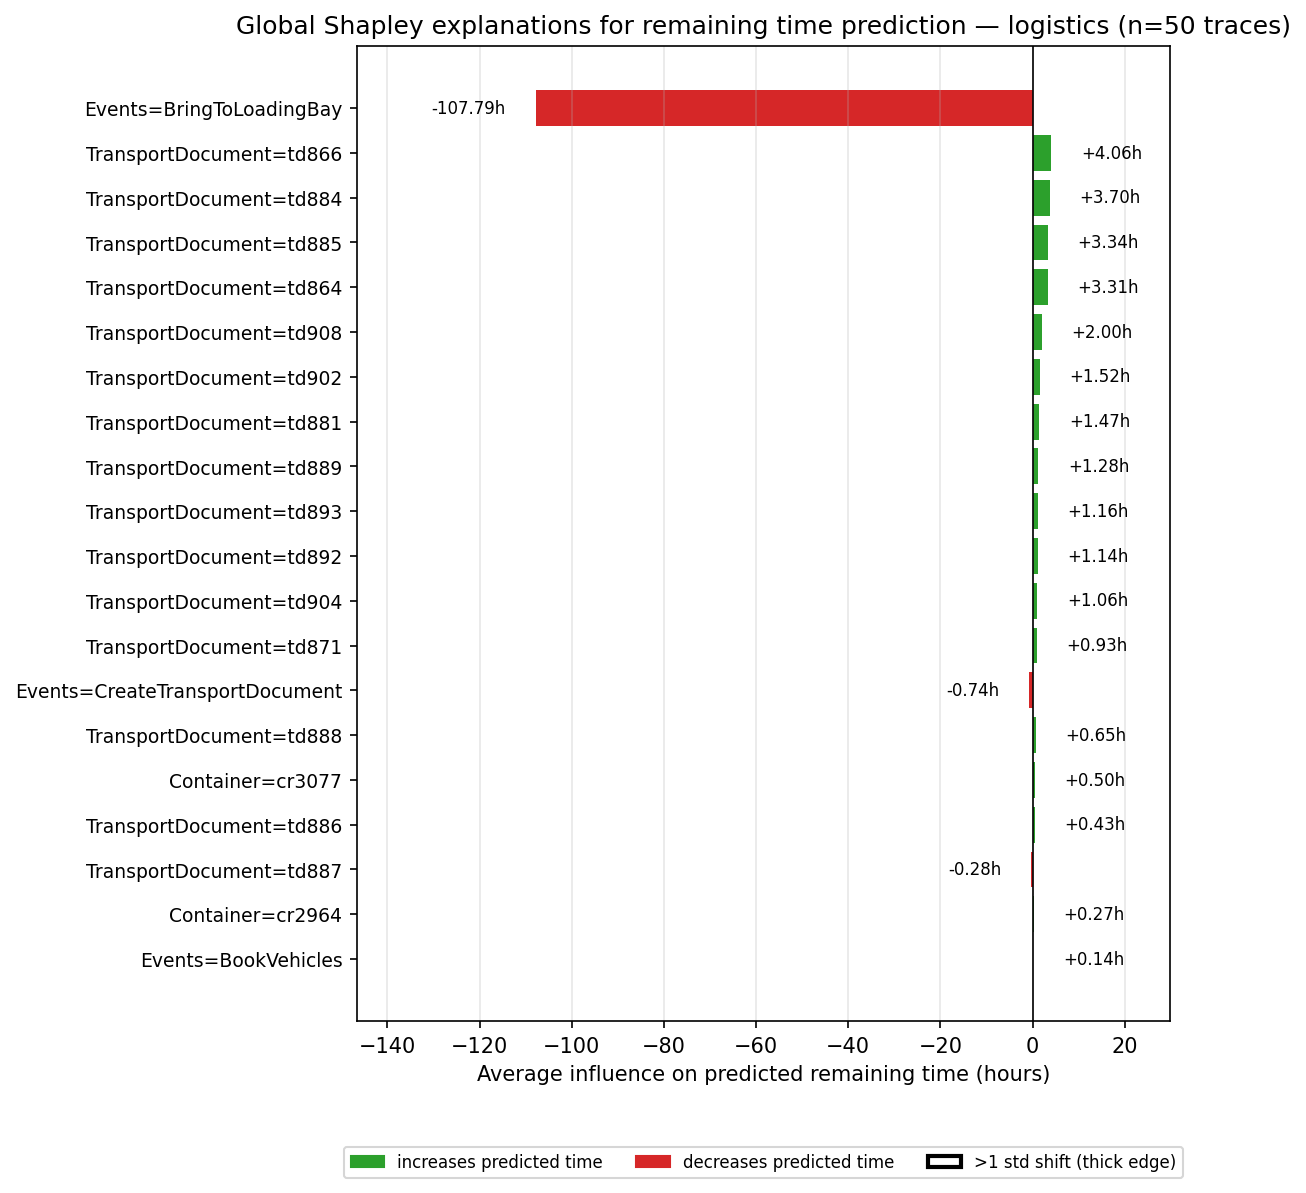
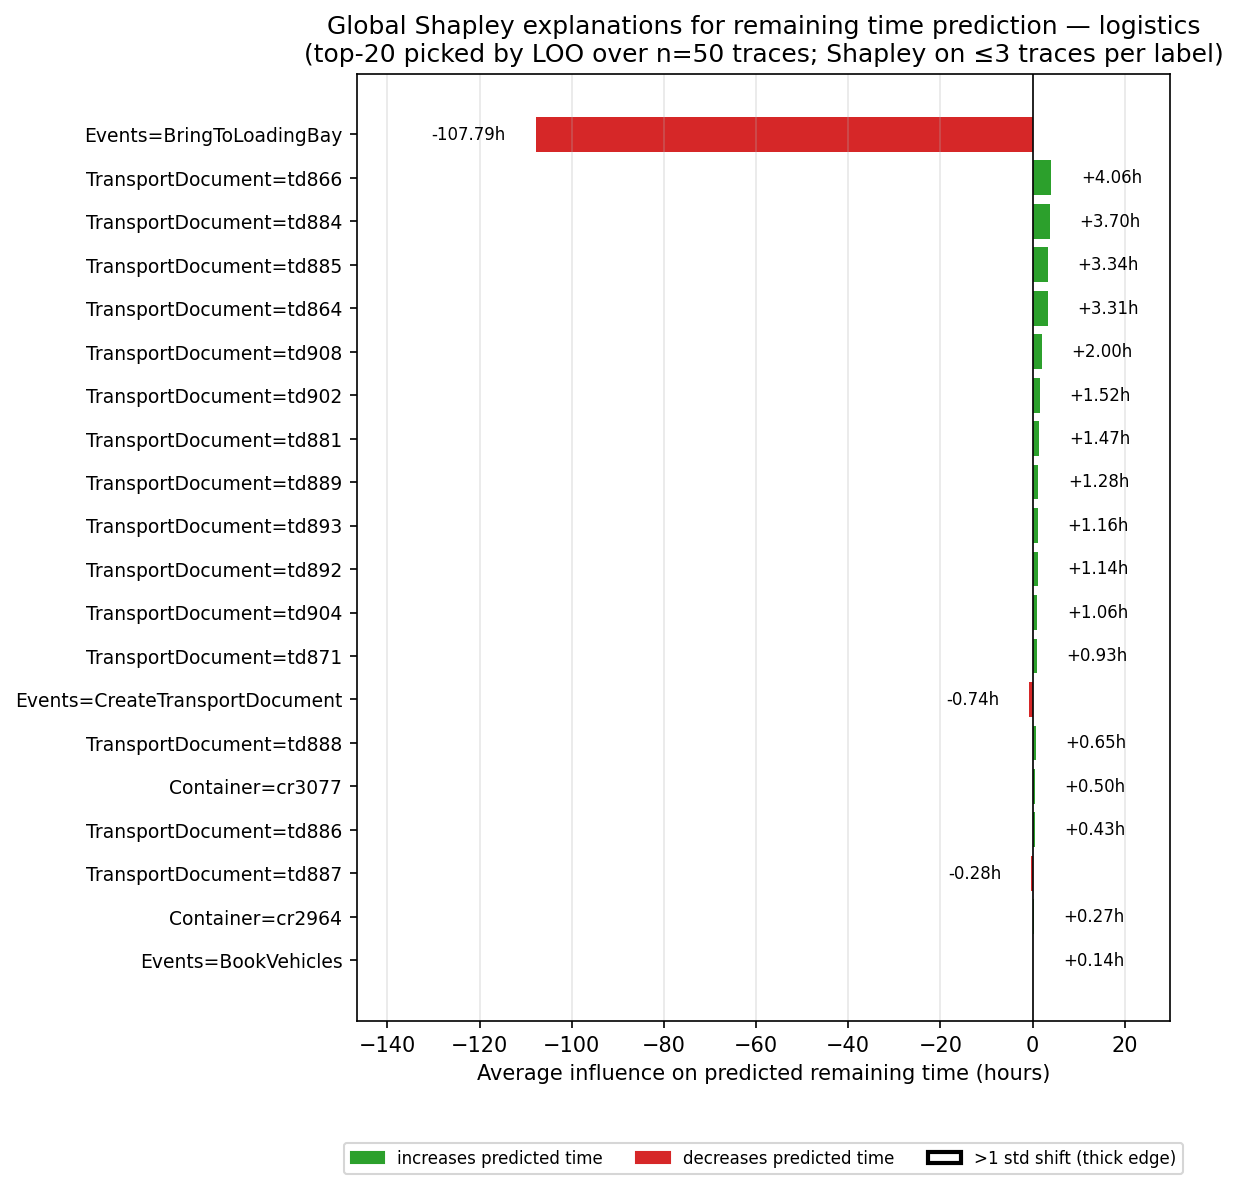
Seed aggregate Shapley sampling and state the real n in its chart titles
explain_aggregate_shapley() now draws its permutation orderings from a
private random.Random(seed) (seed=0 by default), threaded through
shapley_node_importance() and shapley_feature_importance_for_node() via a
new optional rng argument to _permutation_shapley(). Other callers keep
using the global random module, so explanation_quality_showcase.py's
random.seed(42) still governs its cited numbers.

The global bar charts used to say "(n=50 traces)", but each bar is the
mean of at most revisit_n (3) Shapley values; 50 is only the LOO
selection pool. plot_aggregate_explanation_bars() gains an optional
n_label, printed on a second title line, and both the Shapley charts and
promote_aggregate_shapley_global_figures.py now use it. The four
aggregate_shapley_global_*.png thesis figures are re-rendered from their
saved CSVs (bar values unchanged, title only).

diff --git a/explainer.py b/explainer.py
@@ -373,20 +373,26 @@ class Explainer(Modelling):
     # v(FullSet) is then exactly the real baseline_value, keeping the two methods
     # directly comparable on the same elements. See compare_loo_vs_shapley().
 
-    def _permutation_shapley(self, elements, value_fn, n_samples=100):
+    def _permutation_shapley(self, elements, value_fn, n_samples=100, rng=None):
         """General permutation-sampling Shapley estimator: average, over n_samples
         random orderings of `elements`, each element's marginal contribution
         value_fn(prefix + [e]) - value_fn(prefix) at its position in that ordering.
         v(empty set) is cached once (same regardless of ordering). Cost is exactly
         n_samples * len(elements) calls to value_fn -- one incremental evaluation
-        per permutation step, not a re-evaluation from scratch per coalition."""
+        per permutation step, not a re-evaluation from scratch per coalition.
+
+        rng: optional random.Random to draw orderings from. None keeps the old
+        behaviour (the global `random` module), which callers such as
+        explanation_quality_showcase.py seed themselves via random.seed()."""
         import random
 
+        if rng is None:
+            rng = random
         v_empty = value_fn(frozenset())
         totals = {e: 0.0 for e in elements}
         for _ in range(n_samples):
             perm = list(elements)
-            random.shuffle(perm)
+            rng.shuffle(perm)
             prefix, prev_value = [], v_empty
             for e in perm:
                 prefix.append(e)
@@ -395,7 +401,8 @@ class Explainer(Modelling):
                 prev_value = new_value
         return {e: totals[e] / n_samples for e in elements}
 
-    def shapley_node_importance(self, graph, object_idx, baseline_value, node_keys, n_samples=100):
+    def shapley_node_importance(self, graph, object_idx, baseline_value, node_keys, n_samples=100,
+                                rng=None):
         """Node-level Shapley values for a caller-supplied list of (node_type, idx)
         keys -- same signature shape as _loo_shift_for_nodes() for direct
         comparability. Coalitions vary only over node_keys: nodes in node_keys but
@@ -414,10 +421,11 @@ class Explainer(Modelling):
                     perturbed[node_type].x[idx] = 0.0
             return self._predict_value_for_graph(graph, object_idx, perturbed_graph=perturbed)
 
-        return self._permutation_shapley(list(node_keys), value_fn, n_samples=n_samples)
+        return self._permutation_shapley(list(node_keys), value_fn, n_samples=n_samples, rng=rng)
 
     def shapley_feature_importance_for_node(self, graph, node_type, node_idx, baseline_value,
-                                            target_object_idx, feature_indices=None, n_samples=100):
+                                            target_object_idx, feature_indices=None, n_samples=100,
+                                            rng=None):
         """Feature-level Shapley values for one node's features -- the analogue of
         reg_feature_importance_for_node_in_graph(). Coalitions vary over that node's
         feature dimensions (feature_indices defaults to every nonzero feature,
@@ -437,7 +445,7 @@ class Explainer(Modelling):
                     perturbed[node_type].x[node_idx, f] = 0.0
             return self._predict_value_for_graph(graph, target_object_idx, perturbed_graph=perturbed)
 
-        return self._permutation_shapley(feature_indices, value_fn, n_samples=n_samples)
+        return self._permutation_shapley(feature_indices, value_fn, n_samples=n_samples, rng=rng)
 
     def shapley_edge_importance(self, graph, object_idx, baseline_value, edge_keys, n_samples=100):
         """Edge-level Shapley values for a caller-supplied list of (edge_type, edge_idx)
@@ -632,7 +640,8 @@ class Explainer(Modelling):
         plt.close()
 
     def plot_aggregate_explanation_bars(self, explanation_signed_shifts, save_path, title,
-                                        dataset_label=None, n_traces=None, top_n=15):
+                                        dataset_label=None, n_traces=None, top_n=15,
+                                        n_label=None):
         """Single, global, ranked horizontal bar chart of the most influential
         'attr=value' explanations across many traces -- cf. Galanti et al. 2023b's
         Fig. 1 (a global explanation bar chart for remaining-time prediction).
@@ -644,7 +653,10 @@ class Explainer(Modelling):
         every other importance chart in this project.
 
         explanation_signed_shifts: {label: [signed_shift_hours, ...]} -- one entry
-        per (decoded identity or bare node type) label, values already in hours."""
+        per (decoded identity or bare node type) label, values already in hours.
+        n_label: optional text for the title's parenthetical, replacing the default
+        "n=<n_traces> traces" -- used when the bars are NOT a mean over all
+        n_traces (see explain_aggregate_shapley())."""
         import numpy as np
         summary = []
         for label, vals in explanation_signed_shifts.items():
@@ -677,7 +689,10 @@ class Explainer(Modelling):
         full_title = title
         if dataset_label is not None:
             full_title += f" — {dataset_label}"
-        if n_traces is not None:
+        if n_label is not None:
+            # Own line: n_label is long enough to stretch the figure if inlined.
+            full_title += f"\n({n_label})"
+        elif n_traces is not None:
             full_title += f" (n={n_traces} traces)"
         ax.set_title(full_title)
         # Offset scaled to the axis range (not a fixed constant) -- a fixed offset is
@@ -1394,7 +1409,7 @@ class Explainer(Modelling):
         return all_metrics
 
     def explain_aggregate_shapley(self, n_traces=50, top_k=5, n_samples=30, revisit_n=3,
-                                  max_revisit_candidates=6, save_dir=None):
+                                  max_revisit_candidates=6, save_dir=None, seed=0):
         """Aggregate Shapley replacement for the dashboard's two flat "top K" bar
         charts (nodes, features) only -- NOT the per-node-type chart or the depth
         heatmap, which stay LOO-based (both are exhaustive-by-design; Shapley-izing
@@ -1420,13 +1435,20 @@ class Explainer(Modelling):
         cost ~81s instead, confirmed to still surface the same redundancy-driven
         corrections (see logistics' BringToLoadingBay case, corrected this
         session's earlier compare_loo_vs_shapley() runs) while staying close to
-        the originally planned budget."""
+        the originally planned budget.
+
+        seed: seeds a private random.Random for the permutation orderings, so the
+        bar values are reproducible across reruns (the global `random` state is
+        left untouched)."""
+        import random
+
         if save_dir is None:
             save_dir = os.path.join(self.path_dict['explainer_path'], "aggregate")
         os.makedirs(save_dir, exist_ok=True)
 
         self.model.load_state_dict(torch.load(self.model_path, weights_only=False))
         self.model.eval()
+        rng = random.Random(seed)
 
         last_event_graphs = [g for g in self.test_data
                              if g[self.kpi_viewpoint]['last_event'][0].item()]
@@ -1498,7 +1520,8 @@ class Explainer(Modelling):
                 candidates = others + [(nt, idx)]
             else:
                 candidates = all_same_type
-            sv = self.shapley_node_importance(g, 0, baseline_value, candidates, n_samples=n_samples)
+            sv = self.shapley_node_importance(g, 0, baseline_value, candidates, n_samples=n_samples,
+                                              rng=rng)
             return sv[(nt, idx)] / 3600.0
 
         def _revisit_feature_label(nt, node_idx, feat_idx, trace_idx):
@@ -1513,9 +1536,14 @@ class Explainer(Modelling):
             else:
                 candidates = all_feats
             sv = self.shapley_feature_importance_for_node(g, nt, node_idx, baseline_value, 0,
-                                                           feature_indices=candidates, n_samples=n_samples)
+                                                           feature_indices=candidates, n_samples=n_samples,
+                                                           rng=rng)
             return sv[feat_idx] / 3600.0
 
+        # Each bar is the mean of at most revisit_n Shapley values, not of all
+        # len(sample) traces -- the title says so instead of a bare "n=50 traces".
+        n_label = (f"top-20 picked by LOO over n={len(sample)} traces; "
+                   f"Shapley on ≤{revisit_n} traces per label")
         print(f"  Shapley-requantifying top nodes…")
         winners = _top_labels(explanation_signed_shifts, top_n=20)
         shapley_node_shifts = defaultdict(list)
@@ -1526,7 +1554,7 @@ class Explainer(Modelling):
         explanation_summary = self.plot_aggregate_explanation_bars(
             shapley_node_shifts, os.path.join(save_dir, "aggregate_explanation_bars.png"),
             "Global Shapley explanations for remaining time prediction",
-            dataset_label=self.database, n_traces=len(sample), top_n=20,
+            dataset_label=self.database, top_n=20, n_label=n_label,
         )
         pd.DataFrame(explanation_summary).to_csv(
             os.path.join(save_dir, "aggregate_explanation_bars.csv"), index=False
@@ -1542,7 +1570,7 @@ class Explainer(Modelling):
         feature_summary = self.plot_aggregate_explanation_bars(
             shapley_feature_shifts, os.path.join(save_dir, "aggregate_feature_bars.png"),
             "Global Shapley feature attribution for remaining time prediction",
-            dataset_label=self.database, n_traces=len(sample), top_n=20,
+            dataset_label=self.database, top_n=20, n_label=n_label,
         )
         pd.DataFrame(feature_summary).to_csv(
             os.path.join(save_dir, "aggregate_feature_bars.csv"), index=False

diff --git a/thesis_scripts/promote_aggregate_shapley_global_figures.py b/thesis_scripts/promote_aggregate_shapley_global_figures.py
@@ -76,12 +76,17 @@ def main():
         csv_path = os.path.join(save_dir, "aggregate_explanation_bars.csv")
         df = pd.read_csv(csv_path)
         shifts = {row["label"]: [row["mean_signed_shift"]] for _, row in df.iterrows()}
+        # Same title wording as explain_aggregate_shapley(): each bar averages at most
+        # `count` Shapley values, not all 50 traces of the LOO selection pool.
+        max_count = int(df["count"].max())
 
         tmp_png = os.path.join(save_dir, "aggregate_explanation_bars.png")
         e.plot_aggregate_explanation_bars(
             shifts, tmp_png,
             "Global Shapley explanations for remaining time prediction",
-            dataset_label=database, n_traces=50, top_n=20,
+            dataset_label=database, top_n=20,
+            n_label=f"top-20 picked by LOO over n=50 traces; "
+                    f"Shapley on ≤{max_count} traces per label",
         )
 
         staging_path = os.path.join(STAGING_DIR, out_name)
